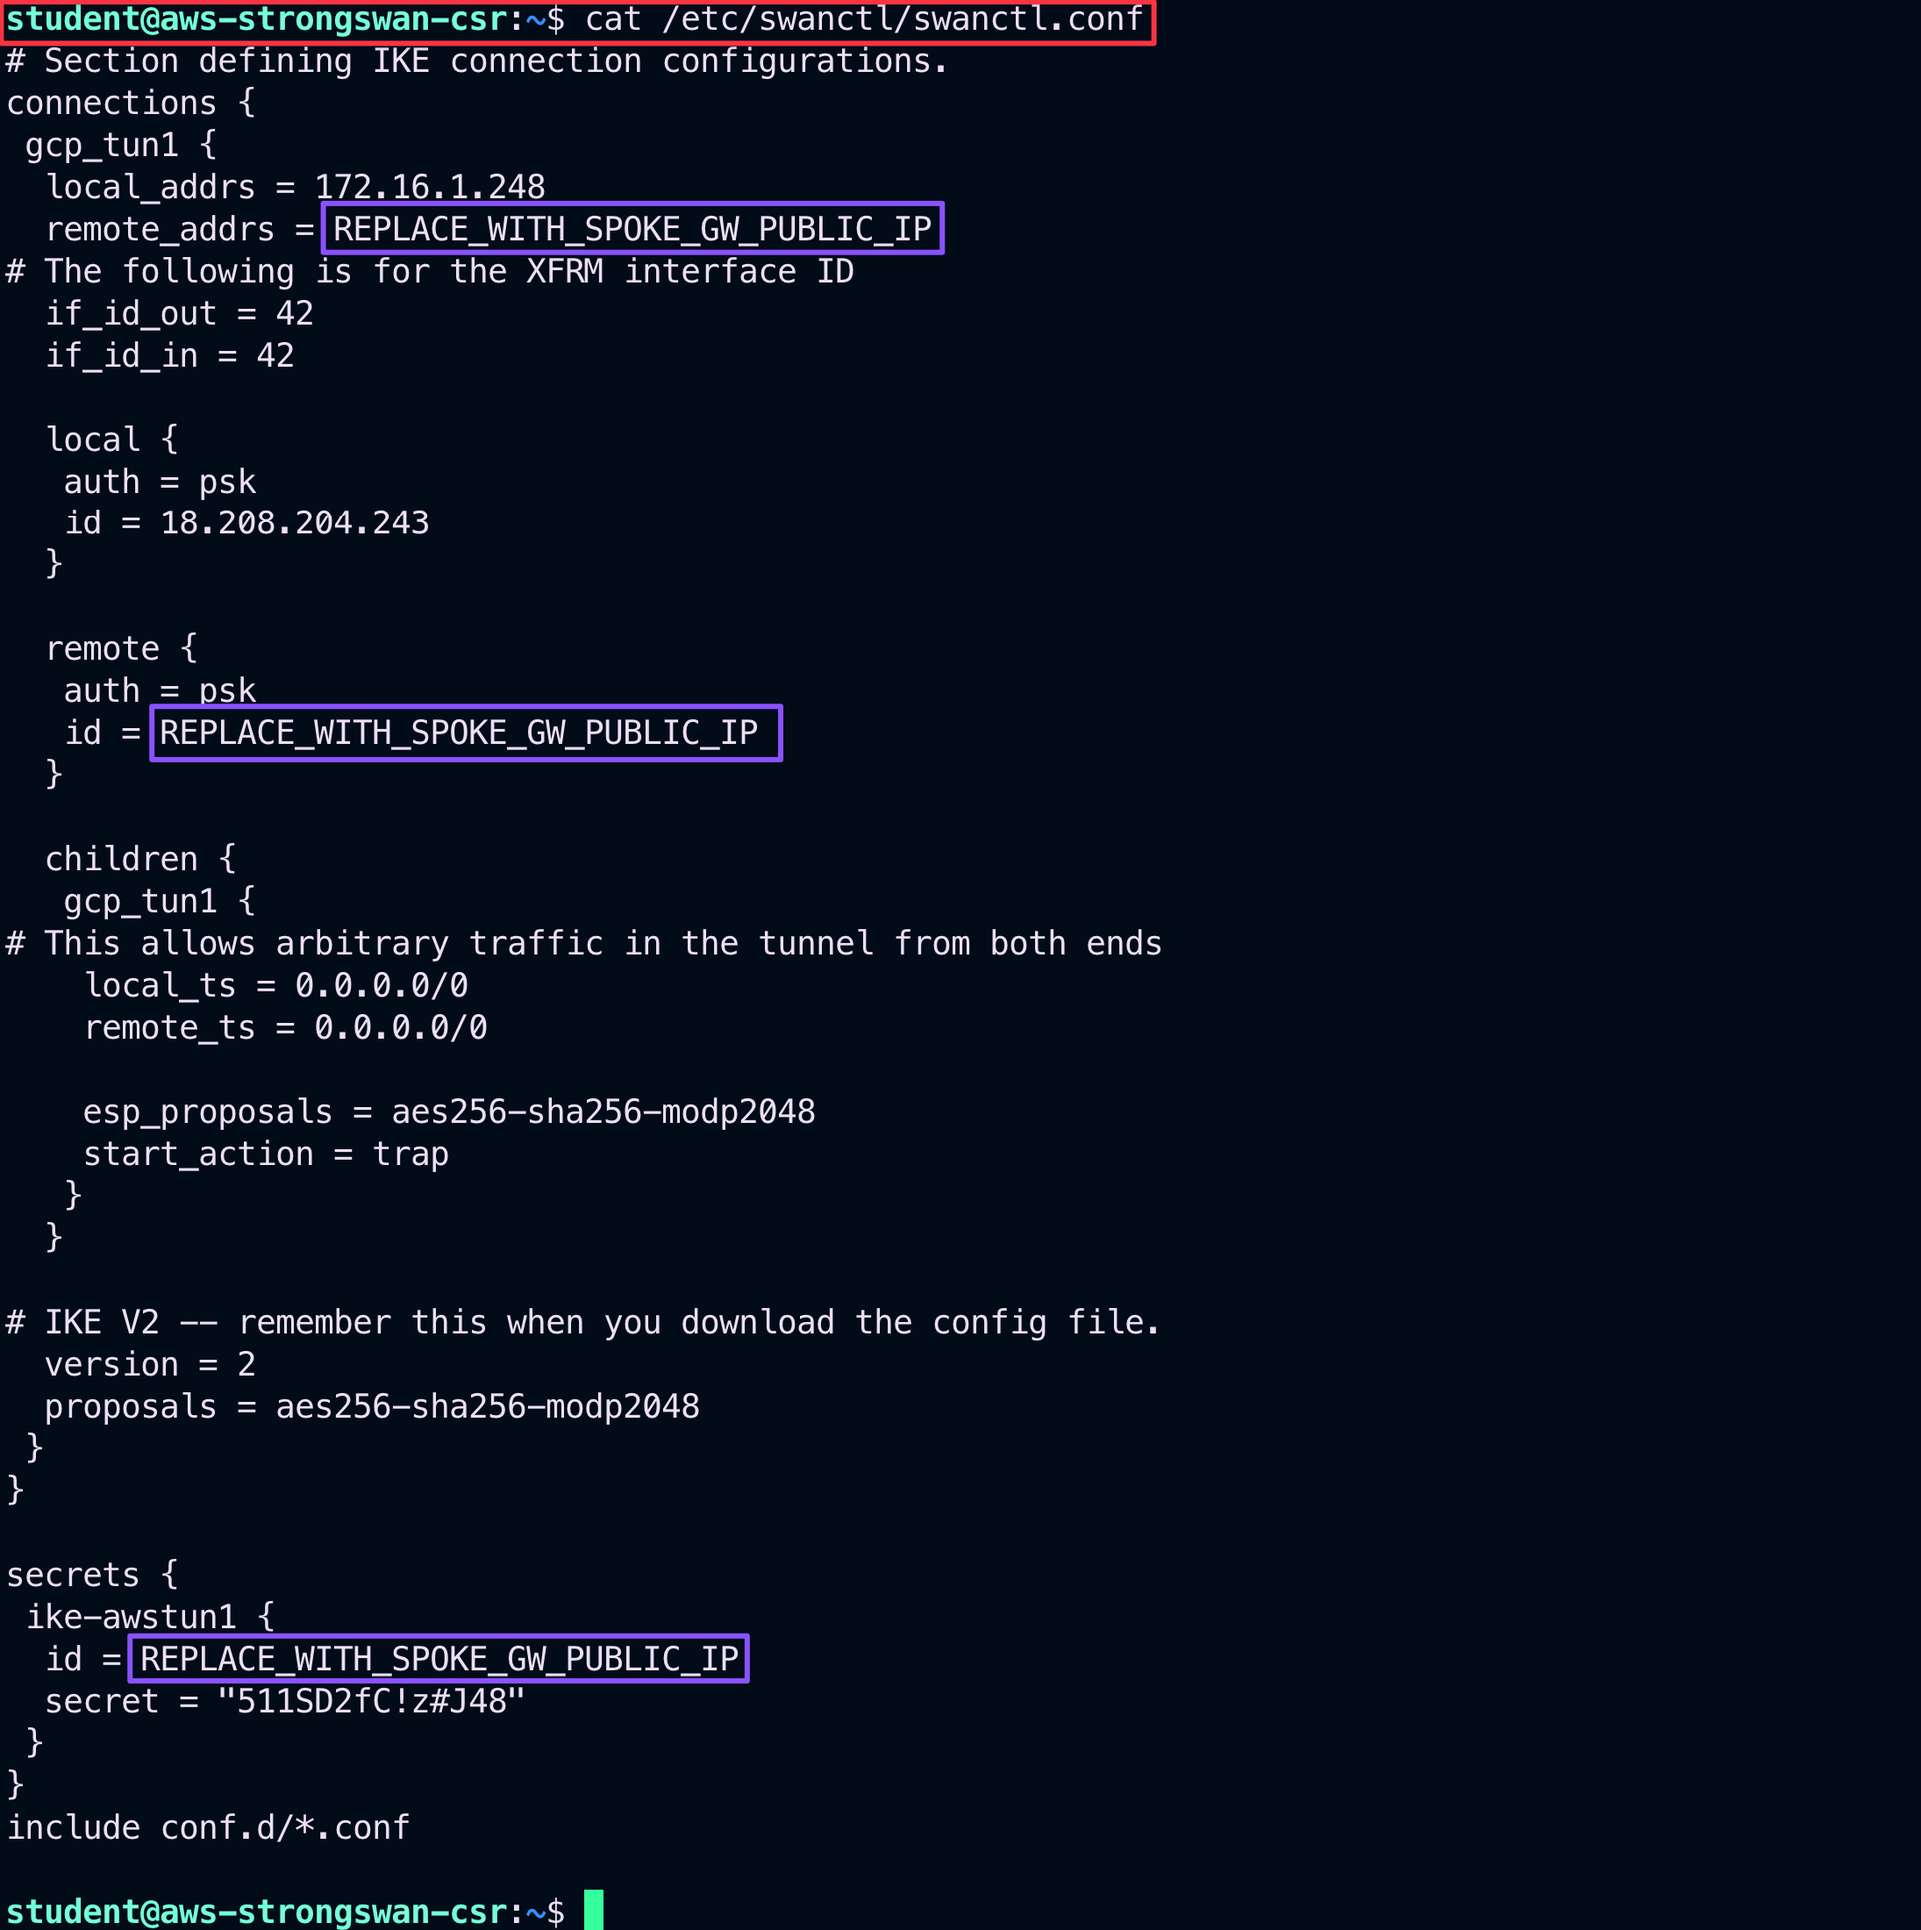
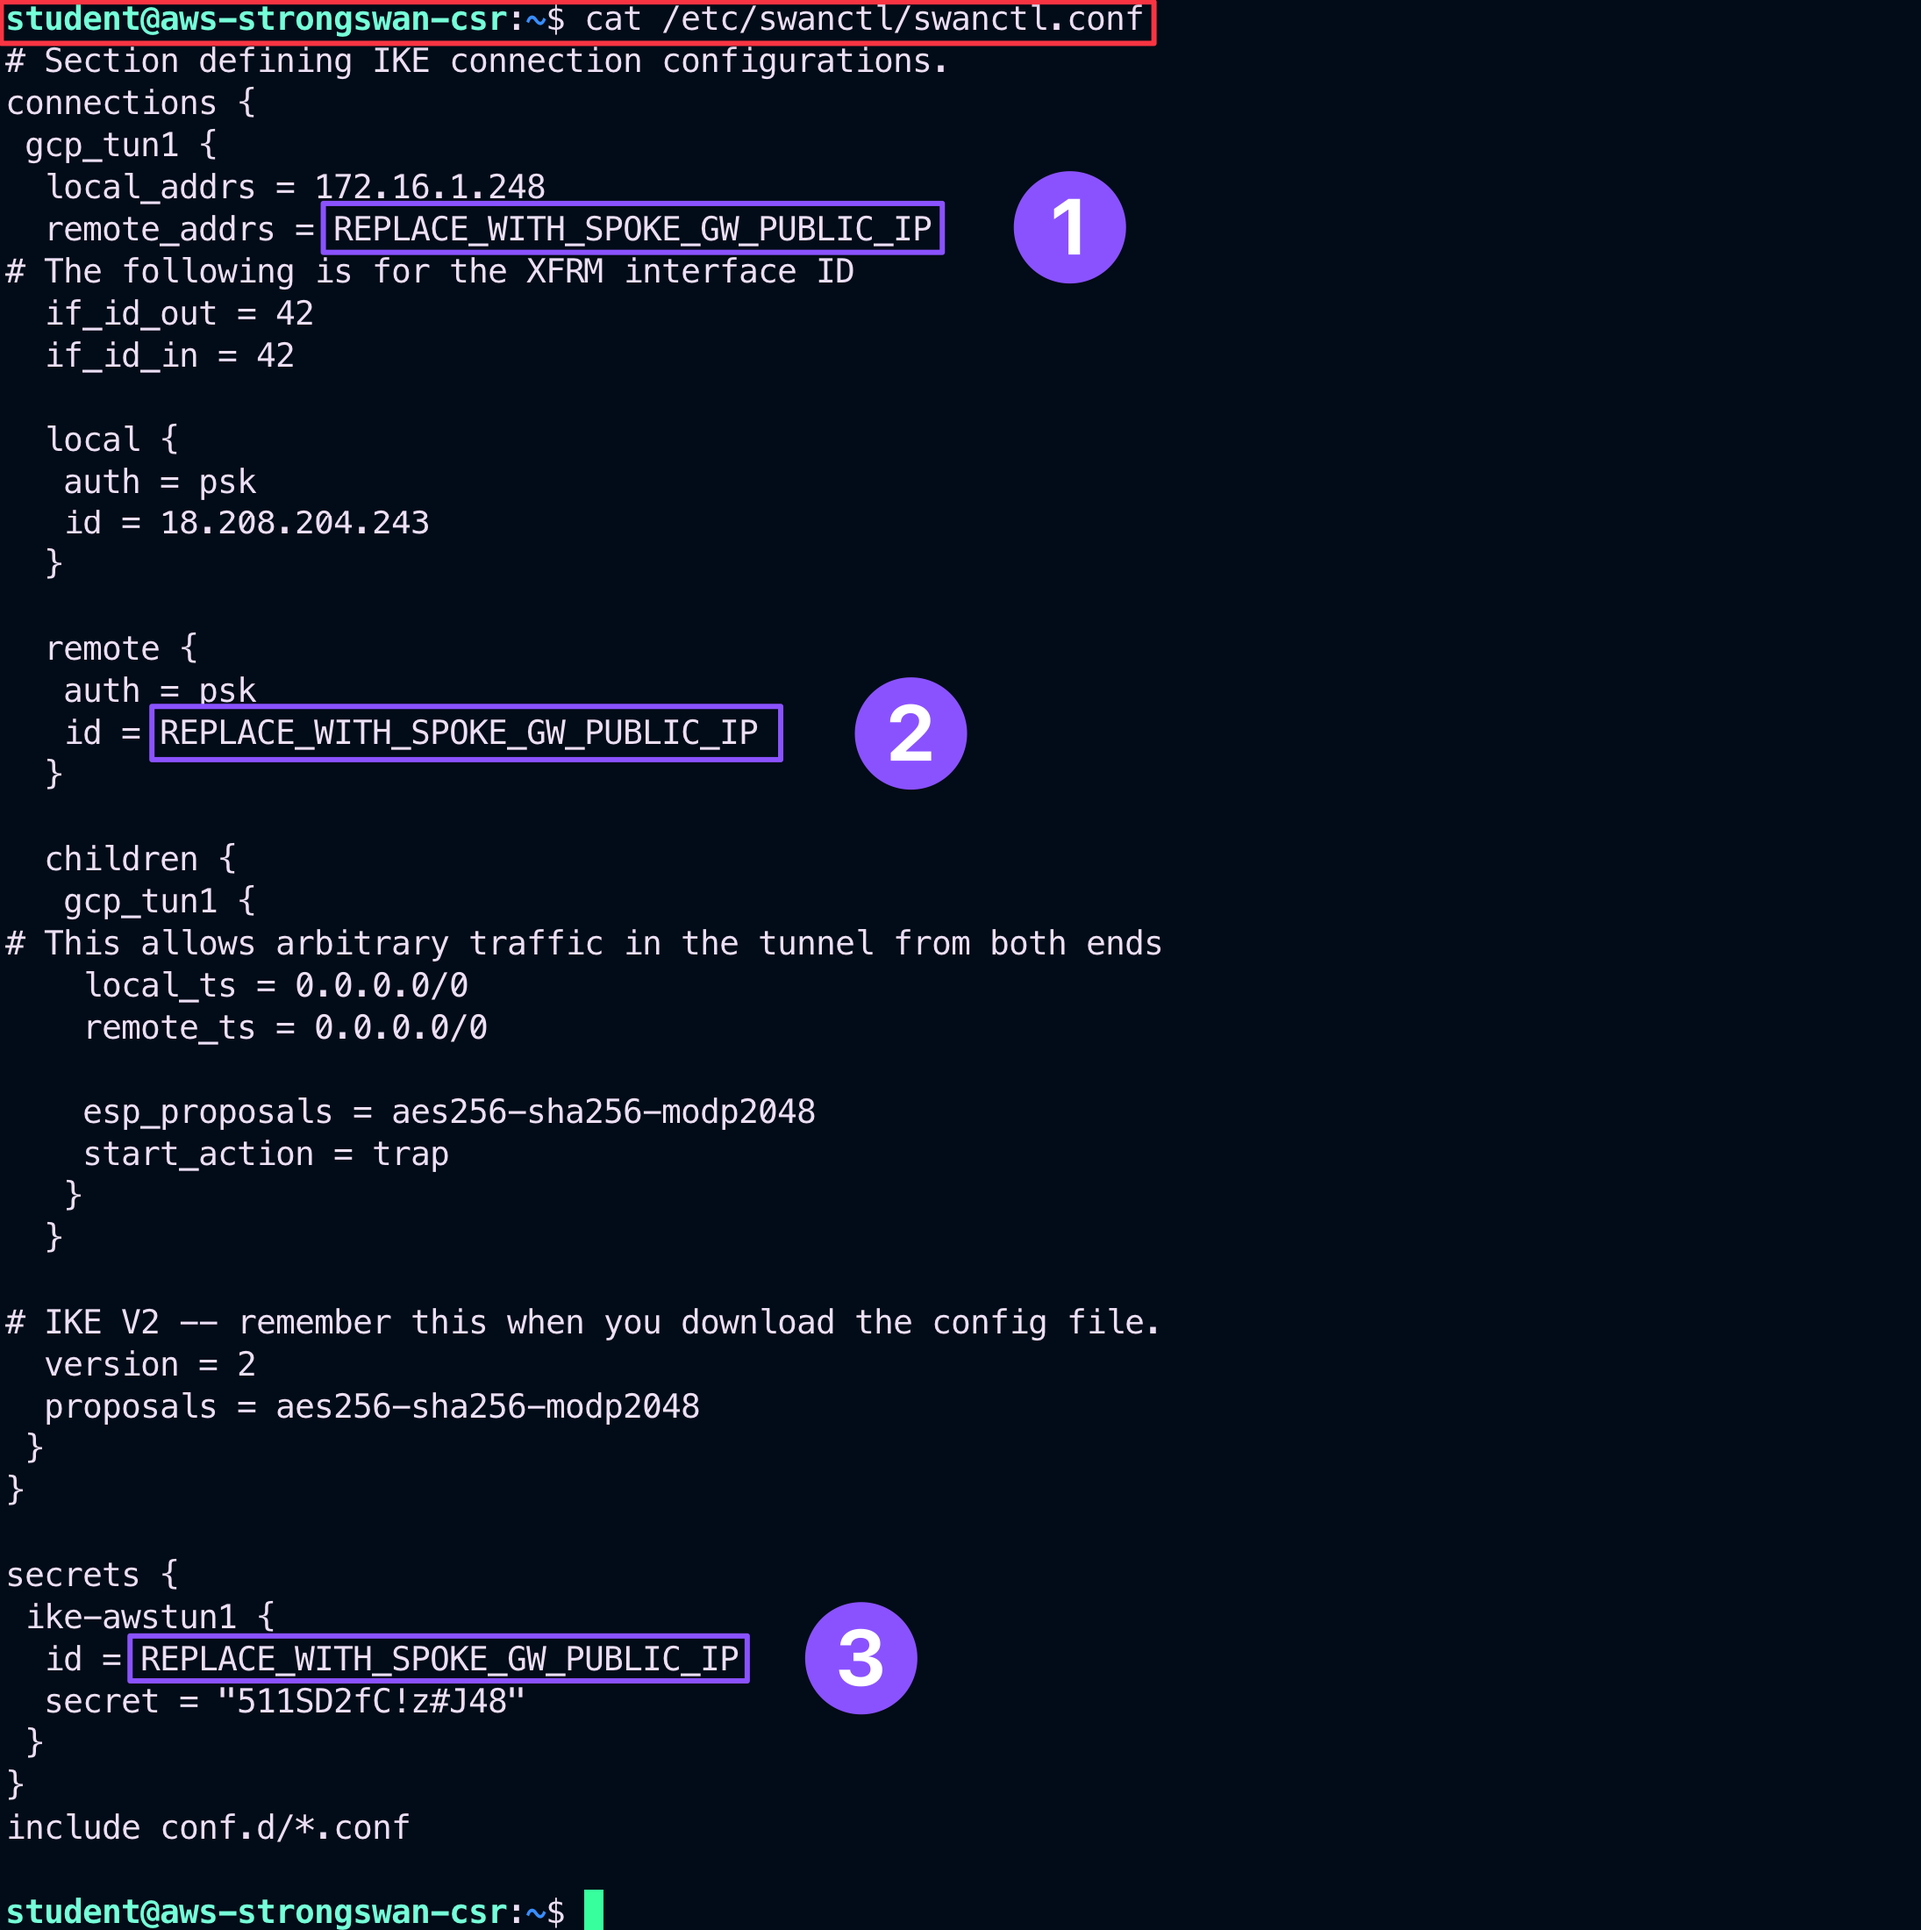
update for pro

Changed region(s): [[0.4037, 0.8036, 0.4968, 0.8964], [0.4347, 0.34, 0.5279, 0.4327], [0.5279, 0.0927, 0.59, 0.1545]]

diff --git a/ace_pro/docs/lab8.md b/ace_pro/docs/lab8.md
@@ -228,7 +228,7 @@ Type the following command:
 cat /etc/swanctl/swanctl.conf
 ```
 
-You will need to replace **`REPLACE_WITH_SPOKE_GW_PUBLIC_IP`** with the public IP of the spoke gateway in 3 places in /`etc/swanctl/swanctl.conf`
+You will need to replace the string **`REPLACE_WITH_SPOKE_GW_PUBLIC_IP`** with the public IP address of the GCP spoke gateway in 3 places in /`etc/swanctl/swanctl.conf`
 
 ```{figure} images/lab8-replace.png
 ---
@@ -237,16 +237,42 @@ align: center
 cfg file
 ```
 
-Go to CoPilot > Cloud Fabric > Gateways > Spoke Gateways and then copy
-After doing so, click on the refres button
+Let's retrieve the Public IP address assigned to the GCP Spoke Gateway.
 
-```{figure} images/lab8-up.png
+Go to **CoPilot > Cloud Fabric > Gateways > Spoke Gateways** and then identify the GCP Spoke Gateway and **copy** its Public IP address.
+
+```{figure} images/lab8-gcppublic.png
 ---
 align: center
 ---
-Connection is up/up
+Public IP address
 ```
 
+Now go back on the SSH session established with the StrongSwan router and edit the cfg file.
+
+Type the following command:
+
+```bash
+vim /etc/swanctl/swanctl.conf
+```
+
+```{figure} images/lab8-insert.png
+---
+align: center
+---
+Insert mode
+```
+
+Delete the string **`REPLACE_WITH_SPOKE_GW_PUBLIC_IP`** and paste the Public IP address of the Spoke Gateway
+
+```{figure} images/lab8-deleteandcopy.png
+---
+align: center
+---
+editing
+```
+
+When you have complete the change, type
 ## 5. S2C - Verification
 
 Go to **CoPilot > Networking > Connectivity > External Connection (S2C)**
